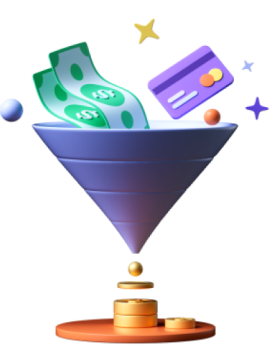
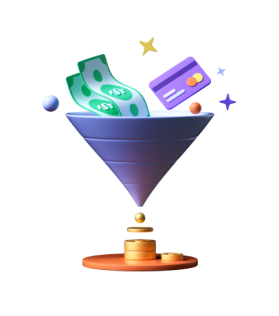
images pushed

diff --git a/Views/introSlides.jsx b/Views/introSlides.jsx
@@ -20,21 +20,21 @@ const slides = [
     key: "one",
     title: "El marketplace de activos digitales",
     text: "Vadi es unmarketplace donde se unen las startups y pymes latinoamericanas con inversores de todo el mundo",
-    // image: require("../assets/vlogo.png"),
+    image: require("../assets/coin2.png"),
     backgroundColor: "#270041",
   },
   {
     key: "two",
     title: "Participacion acionaria",
     text: "Una infraestructura segura y accesible para emitir, almacenar y operar activos digitales em proyectos de bloackchain",
-    // image: require("../assets/rocket.png"),
+    image: require("../assets/tree.png"),
     backgroundColor: "#270041",
   },
   {
     key: "three",
     title: "Capital para emprender",
     text: "Con Vadi puedes lanzar un activo digital para reunir el capital privado necesario para desarrollar tu proyecto",
-    image: require("../assets/cupVadi1.png"),
+    image: require("../assets/cup.png"),
     backgroundColor: "#270041",
   },
 ];
@@ -55,8 +55,8 @@ const IntroSlides = () => {
       style={{ flex: 1, alignSelf: "stretch", width: null }}
       source={require("../assets/rect.png")}
     >
-        <Image source={item.image} style={{alignSelf: "center",}} />
-      <View style={{marginTop:item.key === "three"? -30: 285}}></View>
+        <Image source={item.image} style={{alignSelf: "center", width:350 ,height:350 ,marginTop:30}} />
+      {/* <View style={{marginTop:item.key === "three"? -30: 285}}></View> */}
         {item.title && <Text style={styles.title}>{item.title}</Text>}
         {item.text && <Text style={styles.text}>{item.text}</Text>}
       </ImageBackground>
@@ -159,18 +159,18 @@ const styles = StyleSheet.create({
     paddingHorizontal: 20,
     fontSize: 18,
     textAlign: "center",
-    top:30,
+    top:10,
     lineHeight: 35,
     fontFamily: "NunitoSans_400Regular",
   },
   title: {
-    fontSize: 36,
+    fontSize: 30,
     color: "white",
     padding: 25,
-    top: 30,
+    top: 10,
     lineHeight:46,
     textAlign: "center",
-    paddingTop: 20,
+    paddingTop: 5,
     fontFamily: "NunitoSans_400Regular"
   },
   skipped: {
